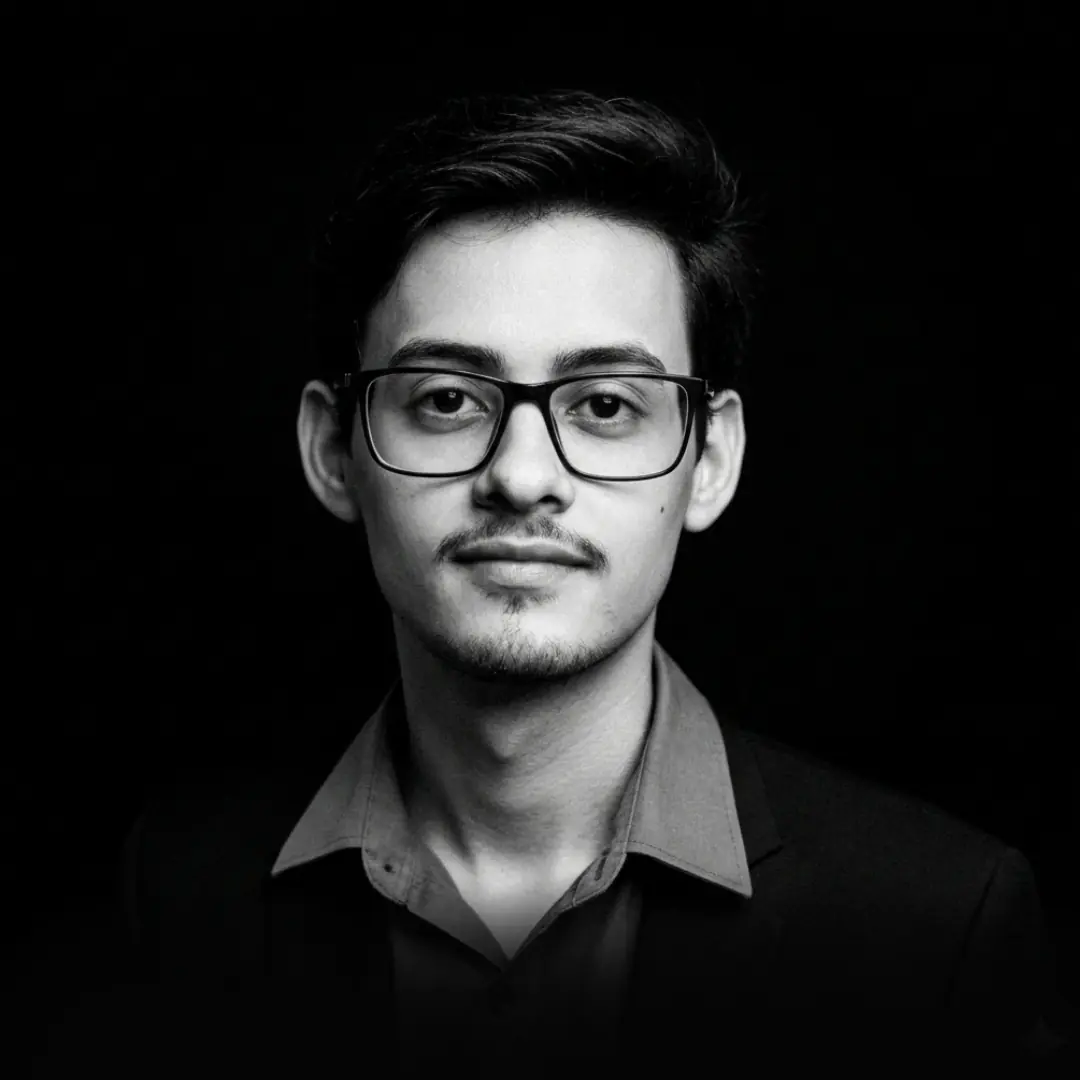
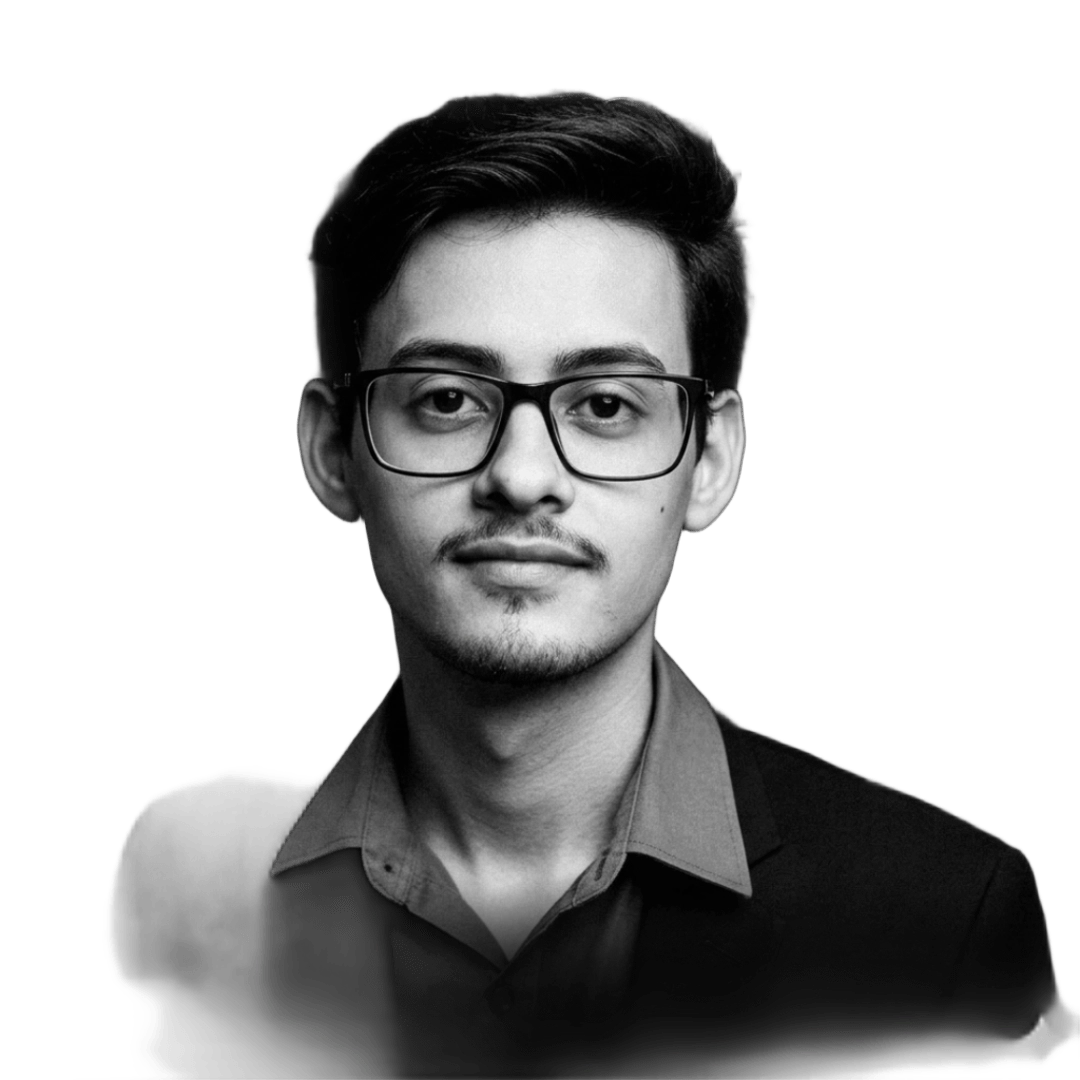
Commit n. 11: Criação e conclusão da seção "Solução"

diff --git a/index.html b/index.html
@@ -122,7 +122,7 @@
                 </div>
             </div>
             <div class="foto-main">
-                <img src="imgs/Foto_Perfil-removebg-preview.webp" alt="Foto do Wesley Victor">
+                <img src="imgs/foto-hero.webp" alt="Foto do Wesley Victor">
             </div>
             <img class="img-background" src="imgs/ato.png" alt="Logo da ATO">
         </section>
@@ -133,22 +133,22 @@
                 <span class="acrescimo-subtitulo">Muitos negócios enfrentam o mesmo problema</span>
                 <h2 class="subtitulo texto-gradiente">Seu negócio está invisível na internet?</h2>
                 <div class="content-problemas">
-                    <div class="problema">
+                    <div class="card-black">
                         <div class="checkmark"></div>
                         <h3 class="sub-subtitulo">Dependência das redes sociais</h3>
                         <p class="info-menor">Se o Instagram parar ou o alcance cair, seu negócio perde visibilidade.</p>
                     </div>
-                    <div class="problema">
+                    <div class="card-black">
                         <div class="checkmark"></div>
                         <h3 class="sub-subtitulo">Dificuldade de ser encontrado no Google</h3>
                         <p class="info-menor">Quando alguém procura seu serviço online, seu negócio pode não aparecer.</p>
                     </div>
-                    <div class="problema">
+                    <div class="card-black">
                         <div class="checkmark"></div>
                         <h3 class="sub-subtitulo">Poucos contatos reais</h3>
                         <p class="info-menor">Ter seguidores não significa receber pedidos de orçamento.</p>
                     </div>
-                    <div class="problema">
+                    <div class="card-black">
                         <div class="checkmark"></div>
                         <h3 class="sub-subtitulo">Concorrentes ganhando espaço</h3>
                         <p class="info-menor">Empresas com presença digital estruturada acabam atraindo mais clientes.</p>
@@ -159,33 +159,39 @@
         </div>
         <div class="container">
             <section class="solucao">
-                <div class="content-solucao-caract">
-                    <div class="solucao_caract-item">
-                        <img src="imgs/icon-business.png" alt="Icone de uma maleta">
-                        <p>Página profissional para apresentar seus serviços</p>
+                <div class="apresentacao-solucao">
+                    <a href="#" class="btn-geral">Quero mais clientes</a>
+                    <div class="apresentacao-solucao_main">
+                        <h2 class="subtitulo back">É aqui que a <span class="texto-gradiente">ATO</span></h2>
+                        <h2 class="subtitulo front">entra em <span class="texto-gradiente">CENA</span></h2>
+                        <img src="imgs/foto-solucao.webp" alt="adulto feliz segurando um celular">
                     </div>
-                    <div class="solucao_caract-item">
-                        <img src="imgs/icon-whats.png" alt="Icone do Whatsapp">
-                        <p>Integração direta com WhatsApp</p>
-                    </div>
-                    <div class="solucao_caract-item">
-                        <img src="imgs/icon-idea.png" alt="Icone de uma lampada">
-                        <p>Estrutura feita para gerar contatos</p>
-                    </div>
-                    <div class="solucao_caract-item">
-                        <img src="imgs/icon-cel.png" alt="Icone de um celular">
-                        <p>Otimização para dispositivos móveis</p>
-                    </div>
+                    <a href="#" class="btn-geral">Falar no WhatsApp</a>
                 </div>
-                <div class="solucao_info">
-                    <h2 class="subtitulo">É aqui que <br>a ATO entra:</h2>
-                    <p class="info">A ATO é uma agência especializada na criação de landing pages estratégicas para profissionais e negócios locais que desejam fortalecer sua presença digital e gerar mais contatos pela internet.</p>
-                    <hr class="barra">
-                    <p class="info-menor destaque">Desenvolvemos páginas profissionais pensadas para apresentar seu negócio com clareza, transmitir confiança e facilitar o contato com seus clientes.</p>
-                    <a href="#planos" class="btn-geral">Quero me destacar</a>
+                <div class="content-solucoes">
+                    <article class="card-solucao">
+                        <p>Site profissional para seus serviços</p>
+                    </article>
+                    <article class="card-solucao">
+                        <p>Integração direta com WhatsApp</p>
+                    </article>
+                    <article class="card-solucao">
+                        <p>Estrutura feita para gerar contatos</p>
+                    </article>
+                    <article class="card-solucao">
+                        <p>Otimização para dispositivos móveis</p>
+                    </article>
                 </div>
             </section>
         </div>
+    </div>
+    <div class="container">
+        <section class="sobre">
+            <p class="info">A ATO é uma agência especializada na criação de landing pages estratégicas para profissionais e negócios locais que desejam fortalecer sua presença digital e gerar mais contatos pela internet.</p>
+            <p class="info">Em um cenário onde muitas empresas ainda dependem apenas de redes sociais, criamos páginas pensadas para gerar contatos reais e fortalecer a presença no Google.</p>
+            <p class="info">Nosso trabalho é guiado por três pilares:<span>Arte, Técnica e Ofício.</span></p>
+            <p class="info"><b>Arte</b> para criar experiências que conectam. <br><b>Técnica</b> para construir com eficiência e estratégia. <br><b>Ofício</b> para entregar com compromisso e profissionalismo.</p>
+        </section>
     </div>
     <div class="container">
         <section class="como-funciona">

diff --git a/style.css b/style.css
@@ -13,8 +13,11 @@ body {
     position: relative;
     background-image: 
         radial-gradient(circle at 6% 3%, rgba(255,255,255,0.16), transparent 12%),
-        radial-gradient(circle at 99% 7%, rgba(255,255,255,0.14), transparent 6%);
+        radial-gradient(circle at 99% 7%, rgba(255,255,255,0.14), transparent 6%),
+        radial-gradient(circle at 81% 23%, rgba(255,255,255,0.16), transparent 14%);
 }
+
+/*  */
 
 body * {
     z-index: 1;
@@ -43,9 +46,9 @@ nav a, nav img {
 }
 
 header {
-    margin: 2rem auto;
+    margin: 1rem auto;
     position: sticky;
-    top: 2rem;
+    top: 1rem;
     left: 0;
     max-height: 5rem;
     max-width: 70%;
@@ -76,6 +79,7 @@ header:hover {
     text-decoration: none;
     position: relative;
     padding-bottom: .5rem;
+    padding-top: .5rem;
 }
 
 .menu a::after {
@@ -164,6 +168,7 @@ header:hover {
 
 .foto-main img {
     display: block;
+    max-width: 510px;
 }
 
 .foto-main::after {
@@ -241,6 +246,27 @@ header:hover {
     /* animation: gradiente 10s linear infinite; */
 }
 
+.subtitulo {
+    font-size: 2.7rem;
+    text-transform: uppercase;
+    max-width: 40%;
+    margin: 1rem 0 2rem;
+}
+
+.subtitulo.texto-gradiente {
+    background: linear-gradient(
+        135deg,
+        #000000,
+        #ffffff,
+        #ffffff,
+        #ffffff
+    );
+    background-size: 100%;
+
+    -webkit-background-clip: text;
+    -webkit-text-fill-color: transparent;
+}
+
 .info {
     margin: 0 1rem 0 0;
     font-size: 1.2rem;
@@ -280,10 +306,12 @@ header:hover {
 
 .apresentacao-problema {
     padding: 1rem 0;
+    position: relative;
 }
 
 .apresentacao-problema .acrescimo-subtitulo {
     font-size: 1rem;
+    padding-left: .1rem;
 }
 
 .apresentacao-problema .acrescimo-subtitulo::before {
@@ -293,4 +321,188 @@ header:hover {
     height: 20px;
     border-radius: 50%;
     background-color: var(--color-secundary);
+    transform: translate(-5px, 5px);
+}
+
+.apresentacao-problema .info-problema_destaque {
+    position: absolute;
+    top: 90px; right: 0;
+    max-width: 310px;
+    text-align: right;
+    font-size: 1.5rem;
+    font-weight: 200;
+}
+
+.content-problemas {
+    display: flex;
+    flex-wrap: wrap;
+    gap: 1rem;
+    align-items: center;
+    max-width: 700px;
+}
+
+.card-black {
+    flex-basis: 270px;
+    min-height: 170px;
+    background: linear-gradient(216deg, #3a3a3abe, #000000be, #000000be, #3a3a3abe);
+    border-radius: 15px;
+    border: 1px solid var(--border-glass);
+    padding: 1rem;
+    transform: translateY(0);
+    transition: all .3s ease-in-out;
+    display: flex;
+    flex-direction: column;
+    justify-content: end;
+    position: relative;
+}
+
+.card-black:hover {
+    transform: translateY(-6px);
+}
+
+.card-black .sub-subtitulo {
+    font-size: 1.1rem;
+    margin-bottom: 0;
+}
+
+.card-black .info-menor {
+    font-size: .9rem;
+    margin-top: 5px;
+}
+
+.card-black .checkmark {
+    position: absolute;
+    top: 10px; left: 20px;
+    width: 30px;
+    height: 30px;
+}
+
+.card-black .checkmark::before {
+    content: "";
+    border-bottom: 5px solid white;
+    width: 26px;
+    display: block;
+    transform: translateY(15px) rotate(45deg);
+}
+
+.card-black .checkmark::after {
+    content: "";
+    border-bottom: 5px solid white;
+    width: 26px;
+    display: block;
+    transform: translateY(11px) rotate(-45deg);
+}
+
+.apresentacao-solucao {
+    display: flex;
+    gap: 1rem;
+    /* max-width: 90%;
+    margin: 0 auto; */
+}
+
+.solucao {
+    position: relative;
+}
+
+.apresentacao-solucao img {
+    display: block;
+    max-width: 500px;
+    margin: 1rem auto;
+}
+
+.apresentacao-solucao_main {
+    flex-grow: 1;
+}
+
+.apresentacao-solucao_main {
+    position: relative;
+}
+
+.apresentacao-solucao_main .subtitulo.back .texto-gradiente {
+    background: linear-gradient(
+        135deg,
+        #ffffff,
+        #ffffff,
+        #000000,
+        #000000
+    );
+    background-size: 115%;
+
+    -webkit-background-clip: text;
+    -webkit-text-fill-color: transparent;
+    font-size: 6rem;
+    display: block;
+    margin: 0;
+    transform: translateX(100px);
+    font-weight: bold;
+}
+
+.apresentacao-solucao_main .subtitulo.front .texto-gradiente {
+    background: linear-gradient(
+        135deg,
+        #ffffff,
+        #ffffff,
+        #ffffff,
+        #000000
+    );
+    background-size: 100%;
+
+    -webkit-background-clip: text;
+    -webkit-text-fill-color: transparent;
+    font-size: 7rem;
+    display: block;
+    margin: 0;
+    transform: translateX(-130px);
+    font-weight: bold;
+}
+
+.apresentacao-solucao_main .subtitulo.back {
+    position: absolute;
+    top: 0; left: 100px;
+    text-transform: none;
+    font-weight: 400;
+}
+
+.apresentacao-solucao_main .subtitulo.front {
+    position: absolute;
+    top: 100px; right: 30px;
+    text-transform: none;
+    font-weight: 400;
+}
+
+.apresentacao-solucao .btn-geral {
+    max-height: 40px;
+    margin: auto 0;
+}
+
+.content-solucoes {
+    position: absolute;
+    bottom: 60px; left: 60px; right: 60px;
+    max-width: 800px;
+    margin: 0 auto;
+    display: flex;
+    gap: .5rem;
+    flex-wrap: wrap;
+    /* align-items: center; */
+    justify-content: center;
+}
+
+.card-solucao {
+    flex-basis: 270px;
+    background: linear-gradient(216deg, #3a3a3a78, #00000078, #00000078, #3a3a3a78);
+    border-radius: 15px;
+    border: 1px solid var(--border-glass);
+    padding: .8rem;
+    transform: translateY(0);
+    transition: all .3s ease-in-out;
+    position: relative;
+    text-align: center;
+    font-size: .9rem;
+    opacity: .7;
+    backdrop-filter: blur(10px);
+}
+
+.card-solucao:hover {
+    transform: translateY(-3px); 
+    opacity: 1;  
 }
